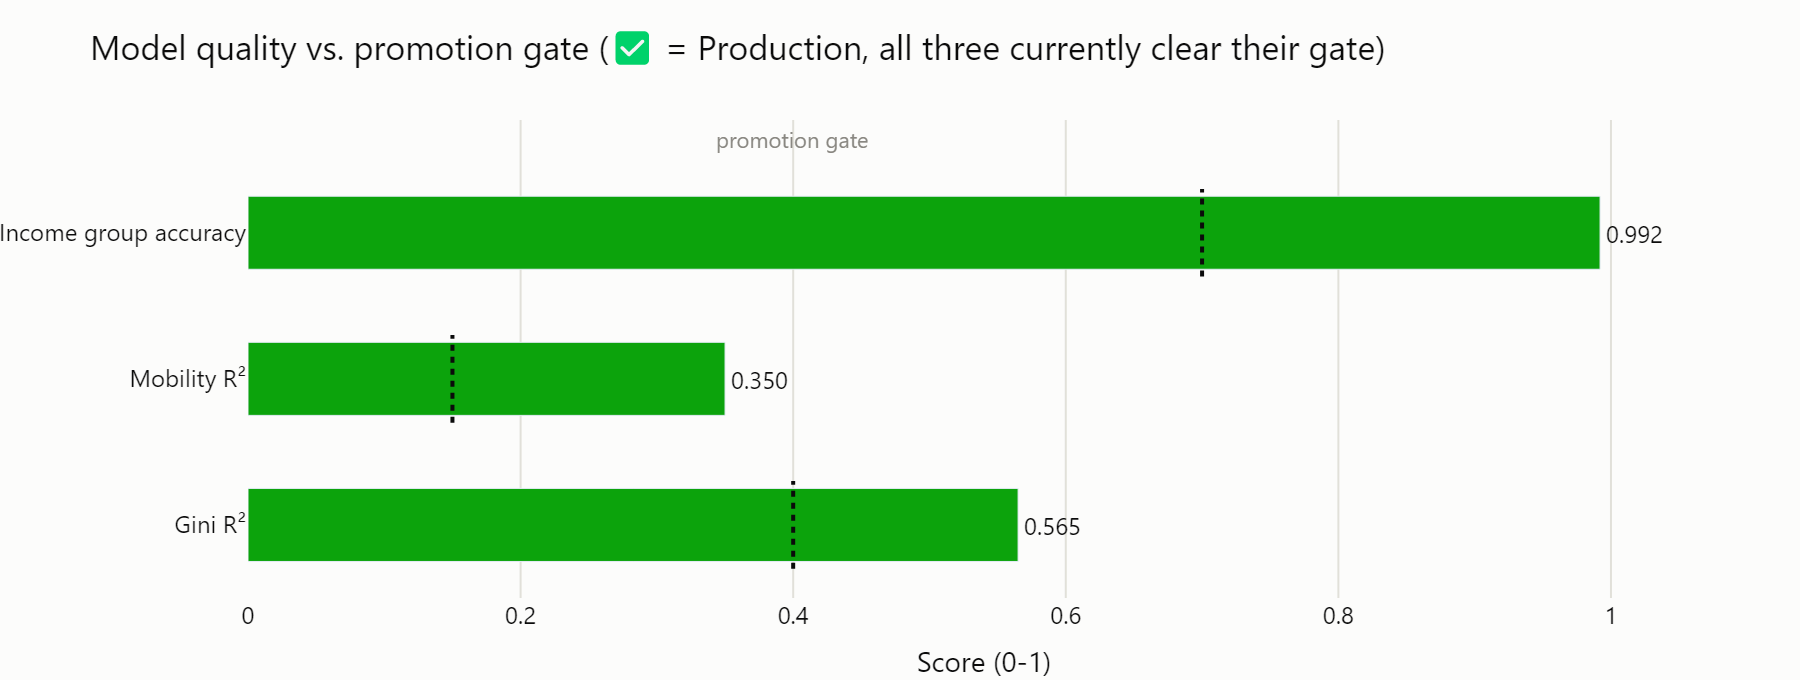
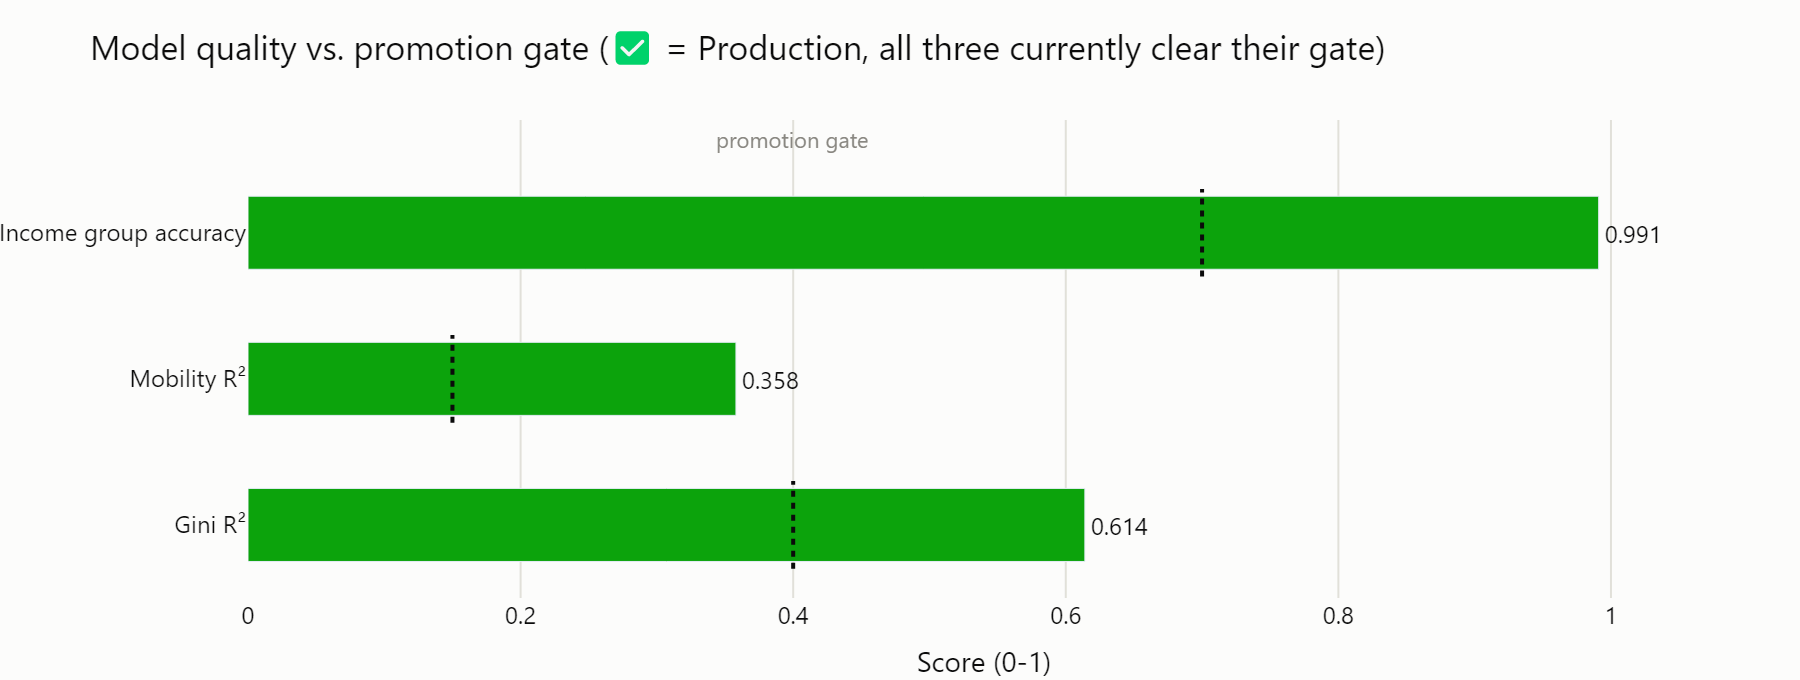
Fix 3 real data-quality bugs found by actually plotting the data
Triggered by noticing Germany's gini_index line drop to ~0 on the Explore
page's country time series — investigated instead of assuming it was a
rendering glitch, which surfaced a genuine, previously-undetected pipeline
bug, then a full numeric-range sweep across every feature found two more:

1. OECD reports Gini on a 0-1 scale; World Bank and Eurostat (this
   pipeline's other two sources) both use 0-100. merge_sources.py's
   coalesce (World Bank > OECD > Eurostat) never rescaled it, so any
   country-year where World Bank had no data silently wrote e.g. Germany
   2023 as gini_index=0.307 instead of ~30.7 — 26 rows across 8 countries
   (Australia, Switzerland, Germany, Hungary, Israel, Korea, New Zealand,
   South Africa), each training the model on a wildly wrong target. Fixed
   in ingest_oecd.py (*100 on ingest, with a comment explaining why).

2. A handful of World Bank fiscal ratios exceeded 100% of GDP (Sudan
   1998-99 hyperinflation, Kuwait 1991's post-Gulf-War GDP collapse,
   Timor-Leste's oil-fund-dominated economy) — physically impossible for
   social_spending_pct_gdp/tax_revenue_pct_gdp, both real training
   features that had no range validation at all (unlike gini_index/
   unemployment_rate/etc., which did). Added pa.Check.in_range(0, 100)
   for both in features/schema.py.

3. Two Eurostat indicators (S80/S20 income quintile ratio, at-risk-of-
   poverty rate) had a dimension-flattening bug in jsonstat_to_df() —
[…]

Changed region(s): [[0.56, 0.7103, 0.6222, 0.8338], [0.4044, 0.4941, 0.4356, 0.6176], [0.8711, 0.3088, 0.9333, 0.3706]]

diff --git a/ingestion/ingest_eurostat.py b/ingestion/ingest_eurostat.py
@@ -11,11 +11,10 @@ https://ec.europa.eu/eurostat/web/microdata/collections-research/european-union-
 That microdata is only available under a research-purposes data access
 contract with Eurostat (individual/household-level rows are not exposed via
 the free API). This project therefore uses only Eurostat's published
-*aggregate* indicators (Gini, income quintile share ratio S80/S20, at-risk-
-of-poverty rate) and substitutes the World Bank's income-group classification
-(see ingest_worldbank.py) for the "individual income bracket" style
-classification target, rather than a genuinely per-household bracket, which
-would require that restricted microdata.
+*aggregate* Gini indicator and substitutes the World Bank's income-group
+classification (see ingest_worldbank.py) for the "individual income bracket"
+style classification target, rather than a genuinely per-household bracket,
+which would require that restricted microdata.
 
 Eurostat's `geo` dimension is mostly ISO 3166-1 alpha-2, but not entirely:
 "EL" for Greece and "UK" for the United Kingdom instead of the real ISO codes
@@ -23,6 +22,19 @@ Eurostat's `geo` dimension is mostly ISO 3166-1 alpha-2, but not entirely:
 countries at all. Converted to ISO3 via common.iso2_to_iso3() (with those two
 overrides) so this joins correctly against World Bank/OECD/WID's ISO3 keys in
 merge_sources.py — rows that don't map to a real country are dropped.
+
+KNOWN ISSUE (found 2026-08-17, fixed by removal): this used to also pull
+ilc_di11 (S80/S20 income quintile share ratio) and ilc_li02 (at-risk-of-
+poverty rate). Both datasets carry extra dimensions (age/sex/unit/poverty-
+threshold variant) beyond geo+time that jsonstat_to_df() doesn't filter down
+to a single canonical series, producing tens of thousands of rows per
+country across incompatible units — e.g. Turkiye's at_risk_of_poverty_rate
+came out as ~14000-36000 (nonsensical for a value that should be 0-100).
+ilc_di12 (Gini) doesn't have this problem — its response only ever carries
+one series per geo+time. Neither removed indicator was ever used as a model
+feature or displayed anywhere, so dropping them outright (rather than
+guessing at the right dimension filter without being able to verify it live)
+was the honest fix.
 """
 
 from __future__ import annotations
@@ -38,8 +50,6 @@ BASE_URL = "https://ec.europa.eu/eurostat/api/dissemination/statistics/1.0/data"
 
 DATASETS = {
     "ilc_di12": "gini_index_eurostat",  # Gini coefficient of equivalised disposable income
-    "ilc_di11": "income_quintile_share_ratio",  # S80/S20 ratio
-    "ilc_li02": "at_risk_of_poverty_rate",
 }
 
 # Eurostat-specific deviations from real ISO 3166-1 alpha-2 codes.

diff --git a/features/schema.py b/features/schema.py
@@ -30,6 +30,17 @@ def build_schema(start_year: int, end_year: int) -> pa.DataFrameSchema:
                 float, pa.Check.in_range(0, 100), nullable=True, required=False, coerce=True
             ),
             "population_total": pa.Column(float, pa.Check.ge(0), nullable=True, required=False, coerce=True),
+            # World Bank's own published series for a handful of crisis/structurally-unusual
+            # economies (Sudan 1998-99 hyperinflation, Kuwait 1991 post-Gulf War GDP collapse,
+            # Timor-Leste's oil-fund-dominated GDP) puts these over 100% — a government can't
+            # spend or tax more than its entire economy, so treat those specific rows as bad data
+            # rather than real extremes (unlike gdp_growth_pct, where large swings are plausible).
+            "social_spending_pct_gdp": pa.Column(
+                float, pa.Check.in_range(0, 100), nullable=True, required=False, coerce=True
+            ),
+            "tax_revenue_pct_gdp": pa.Column(
+                float, pa.Check.in_range(0, 100), nullable=True, required=False, coerce=True
+            ),
         },
         strict=False,  # the panel has many more columns than we bother to constrain
     )

diff --git a/ingestion/ingest_oecd.py b/ingestion/ingest_oecd.py
@@ -78,6 +78,15 @@ def fetch_gini() -> pd.DataFrame:
     df["indicator"] = "gini_index_oecd"
     df["source"] = "oecd"
     df["value"] = pd.to_numeric(df["value"], errors="coerce")
+    # OECD's Income Distribution Database reports Gini on a 0-1 scale (confirmed:
+    # every value in a live pull fell in [0.21, 0.63]) — World Bank and Eurostat,
+    # this pipeline's other two Gini sources, both use the standard 0-100 index.
+    # Without this, merge_sources.py's coalesce (World Bank > OECD > Eurostat)
+    # silently wrote e.g. Germany 2023 as gini_index=0.307 instead of ~30.7 for
+    # any country-year where World Bank had no data and OECD's value was picked —
+    # 26 rows across 8 countries in the current panel, each one training the
+    # model on a wildly wrong target.
+    df["value"] = df["value"] * 100
     return df[["country_code", "country_name", "year", "indicator", "value", "source"]]
 
 

diff --git a/ingestion/common.py b/ingestion/common.py
@@ -42,6 +42,12 @@ def get_with_retry(
         try:
             resp = requests.get(url, params=params, timeout=30, **kwargs)
             resp.raise_for_status()
+            # requests guesses .encoding from the Content-Type header, falling back to
+            # ISO-8859-1 (per HTTP/1.1) when a server doesn't declare a charset — found
+            # via Eurostat's API mangling "Türkiye" to "T?rkiye" in .json()'s decoding
+            # (which reads .text, using that guessed encoding). JSON is UTF-8 by spec
+            # (RFC 8259), so force it rather than trust the guess.
+            resp.encoding = "utf-8"
             return resp
         except requests.RequestException as exc:
             last_exc = exc

diff --git a/streamlit/app_streamlit.py b/streamlit/app_streamlit.py
@@ -254,6 +254,13 @@ def page_explore(df: pd.DataFrame) -> None:
     st.plotly_chart(fig, use_container_width=True)
 
     st.subheader("Country time series")
+    if metric == "intergen_income_elasticity":
+        st.caption(
+            "Flat by design, not a bug: GDIM publishes one education-based mobility estimate per "
+            "country (its most recent available birth cohort), not an annual series — "
+            "merge_sources.py broadcasts that single value across every year. See the About page's "
+            "Challenges Solved section."
+        )
     countries = sorted(df["country_name"].dropna().unique())
     default_countries = [
         c

diff --git a/README.md b/README.md
@@ -49,9 +49,9 @@ clears its MLflow registry promotion gate (`params.yaml`'s `promotion_gates`, mi
 
 | Target | Metric | Value | Gate | Registry stage |
 |---|---|---|---|---|
-| Gini index | R² | 0.565 | ≥ 0.4 | ✅ Production |
-| Mobility (intergen. elasticity) | R² | 0.350 | ≥ 0.15 | ✅ Production |
-| Income group | Accuracy | 0.992 | ≥ 0.7 | ✅ Production |
+| Gini index | R² | 0.614 | ≥ 0.4 | ✅ Production |
+| Mobility (intergen. elasticity) | R² | 0.358 | ≥ 0.15 | ✅ Production |
+| Income group | Accuracy | 0.991 | ≥ 0.7 | ✅ Production |
 
 All three currently clear their gates and are registered as `Production` versions on DagsHub's
 MLflow registry — but the gate is real, not decorative: a model that doesn't clear its threshold
@@ -95,7 +95,7 @@ keys required (WID.world's public endpoint is currently retired — see Known Li
 | [World Bank Open Data](https://api.worldbank.org/v2/) | Gini index, GDP, unemployment, education/tax/social spending, income-group classification | Public REST API |
 | [OECD Income Distribution Database](https://data-explorer.oecd.org/vis?fs[0]=Topic,1%7CSociety%23SOC%23%7CInequality%23SOC_INE%23&df[id]=DSD_WISE_IDD%40DF_IDD) | Gini index (OECD member countries, alternate methodology) | Public SDMX API |
 | [WID.world](https://wid.world/data/) | Top-10% / bottom-50% pre-tax income shares | Public REST API (currently retired — best-effort, see limitations) |
-| [Eurostat EU-SILC](https://ec.europa.eu/eurostat/web/microdata/collections-research/european-union-statistics-on-income-and-living-conditions) | Gini, S80/S20 ratio, at-risk-of-poverty rate (aggregate indicators only — see limitations) | Public JSON-stat API |
+| [Eurostat EU-SILC](https://ec.europa.eu/eurostat/web/microdata/collections-research/european-union-statistics-on-income-and-living-conditions) | Gini index (aggregate indicator only — see limitations) | Public JSON-stat API |
 | World Bank GDIM | Intergenerational mobility (education-based proxy) | Public file download (data catalog, no auth) |
 
 `ingestion/*.py` each document their exact request shape; `ingestion/merge_sources.py` joins
@@ -369,6 +369,24 @@ tutorial-perfect assumptions:
   whichever one was cached first — only reproducible when the full test suite ran together
   (exactly what CI does), which is why it went unnoticed until CI was fixed and actually ran for
   the first time in this project's history.
+- **OECD's Gini index is on a 0-1 scale; World Bank and Eurostat use 0-100.** `merge_sources.py`'s
+  coalesce (World Bank > OECD > Eurostat) never rescaled it, so any country-year where World Bank
+  had no data silently wrote e.g. Germany 2023 as `gini_index=0.307` instead of ~30.7 — 26 rows
+  across 8 countries, each training the model on a wildly wrong target. Found by actually plotting
+  the Explore page's country time series and noticing a line drop to zero. Fixed in
+  `ingest_oecd.py`; retraining lifted gini's R² from 0.565 to 0.614.
+- **A handful of World Bank fiscal ratios exceeded 100% of GDP** (Sudan 1998-99 hyperinflation,
+  Kuwait 1991's post-Gulf-War GDP collapse, Timor-Leste's oil-fund-dominated economy) — physically
+  impossible for `social_spending_pct_gdp`/`tax_revenue_pct_gdp`, both real training features.
+  `features/schema.py` had range checks for `gini_index`/`unemployment_rate`/etc. but not these
+  two; added `pa.Check.in_range(0, 100)` for both, which drops the ~9 offending rows automatically.
+- **Two Eurostat indicators (S80/S20 income quintile ratio, at-risk-of-poverty rate) had a
+  dimension-flattening bug producing tens of thousands of rows per country across incompatible
+  units** (age/sex/unit variants never filtered down to one canonical series) — one country's
+  "rate" column came out around 14,000-36,000, nonsensical for a value that should be 0-100.
+  Neither was ever used as a model feature or shown anywhere, so removed outright from
+  `ingest_eurostat.py` rather than guessing at the right dimension filter blind. Gini (`ilc_di12`)
+  doesn't have this problem — its response only ever carries one series per country-year.
 
 ## Known Limitations
 
